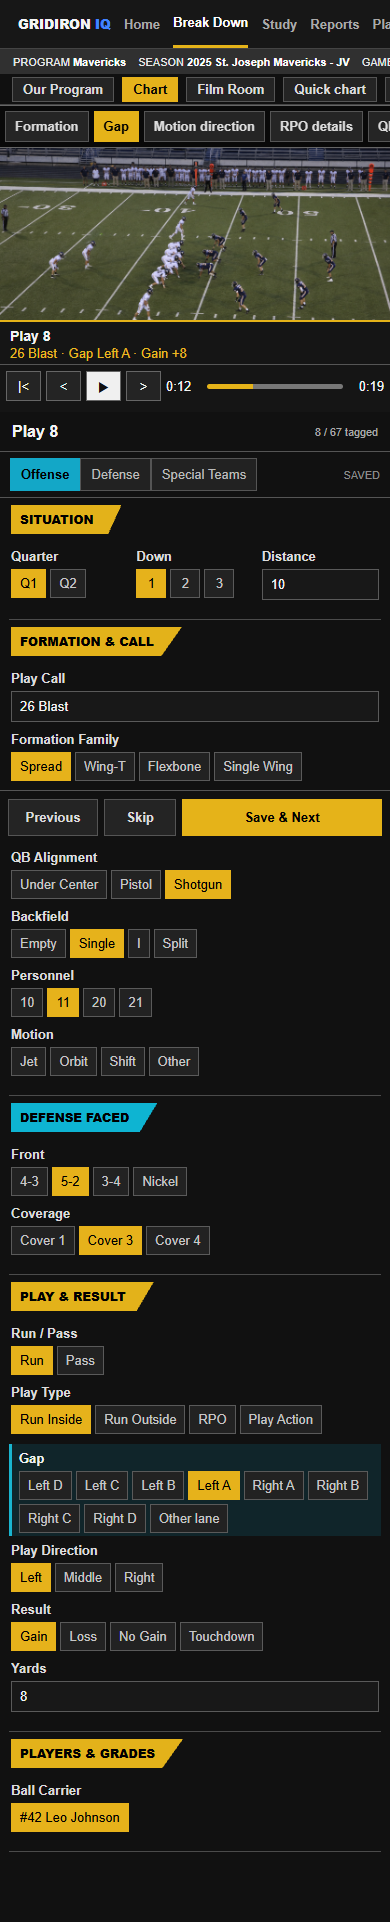
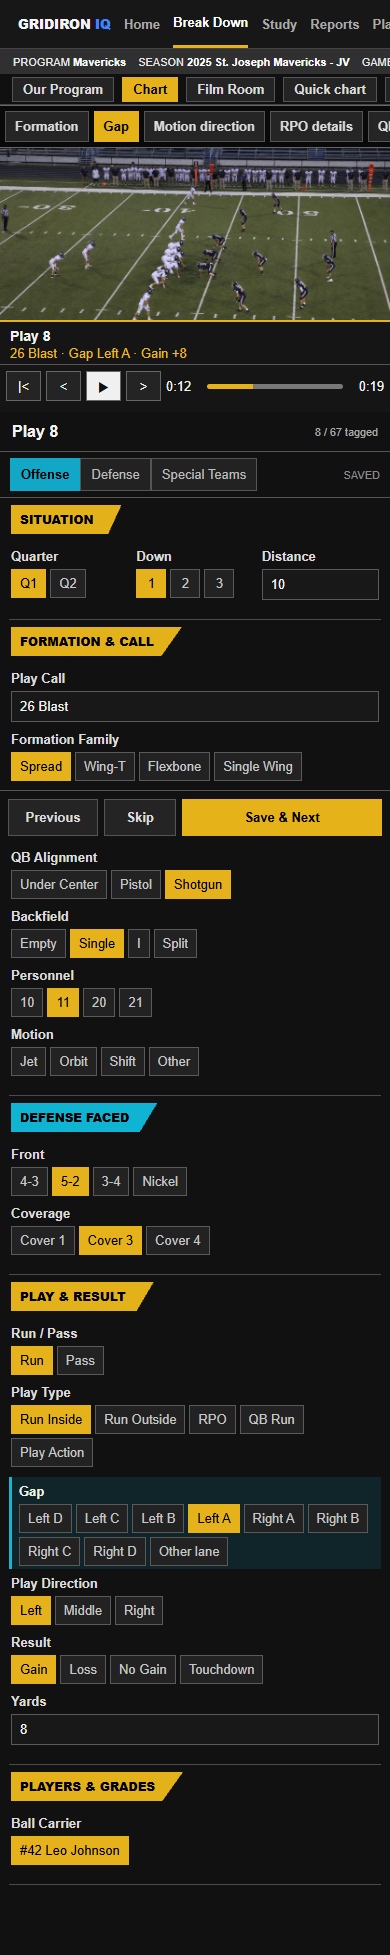
Comp: reveal charting details inline

Changed region(s): [[0.0, 0.0, 1.0, 0.9677], [0.6769, 0.281, 0.8308, 0.3122], [0.5231, 0.281, 0.5846, 0.3122]]

diff --git a/design-comps/breakdown-charting-2026-09-27/index.html b/design-comps/breakdown-charting-2026-09-27/index.html
@@ -67,6 +67,8 @@
     .new-field { margin:8px -2px 0; padding:7px 7px 3px; border-left:3px solid #1ab4cf; background:#10252a; }
     .new-field .field:first-child { margin-top:0; }
     .new-field .field-label { color:#f2f2f2; }
+    .motion-path { display:grid; grid-template-columns:repeat(2,minmax(0,1fr)); gap:8px; }
+    .motion-path .field { min-width:0; margin:0 0 4px; }
     .formation-fields.focused { margin:8px -2px 0; padding:7px 7px 3px; border-left:3px solid #1ab4cf; background:#10252a; }
     .scenario { display:none; }
     .scenario.active { display:contents; }
@@ -89,10 +91,10 @@
       <div class="film"><div class="frame"><img src="../../ux-prototype/assets/all22-frame.png" alt="All-22 football film frame"></div><div class="film-meta"><strong>Play 8 <span style="color:#999;font-weight:400">1st &amp; 10 · Own 28 · Left hash</span></strong><span class="accent" id="film-summary">26 Blast · Run inside · Gain +8</span><span>Our Drive 1</span></div><div class="film-controls"><div class="buttons"><button title="Previous play">|&lt;</button><button title="Rewind">&lt;</button><button class="play" title="Play">&#9654;</button><button title="Forward">&gt;</button><span>0:12</span><div class="track"></div><span>0:19</span></div></div></div>
       <aside class="plays"><div class="plays-head">PLAYS <small>67 plays · grouped by drive</small></div><div class="play-list"><div class="play-row"><span>3</span><b>1st &amp; 10</b><span>Loss -3</span></div><div class="play-row"><span>4</span><b>2nd &amp; 13</b><span>Penalty +5</span></div><div class="play-row"><span>5</span><b>2nd &amp; 8</b><span>Loss -1</span></div><div class="play-row"><span>6</span><b>3rd &amp; 9</b><span>Loss -4</span></div><div class="play-row"><span>7</span><b>4th &amp; 13</b><span>Punt</span></div><div class="play-row current"><span>8</span><b>1st &amp; 10</b><span>Gain +8</span></div><div class="play-row"><span>9</span><b>1st &amp; 10</b><span>Gain +6</span></div><div class="play-row"><span>10</span><b>2nd &amp; 4</b><span>TD +8</span></div><div class="play-row"><span>11</span><b>Down -</b><span>XP</span></div><div class="play-row"><span>12</span><b>Down -</b><span>Kickoff</span></div><div class="play-row"><span>13</span><b>1st &amp; 10</b><span>Loss -1</span></div><div class="play-row"><span>14</span><b>2nd &amp; 11</b><span>Gain +1</span></div></div></aside>
       <section class="deck" aria-label="Charting deck"><div class="deck-head"><strong>Play 8</strong><small>8 / 67 tagged</small></div><div class="unit"><button class="active">Offense</button><button>Defense</button><button>Special Teams</button><span class="mode">SAVED</span></div><div class="deck-body"><div class="section"><span class="section-title">SITUATION</span><div class="select-line"><div class="field"><div class="field-label">Quarter</div><div class="chips"><button class="chip on">Q1</button><button class="chip">Q2</button></div></div><div class="field"><div class="field-label">Down</div><div class="chips"><button class="chip on">1</button><button class="chip">2</button><button class="chip">3</button></div></div><div class="field"><div class="field-label">Distance</div><input class="input" value="10" aria-label="Distance"></div></div></div>
-      <div class="section"><span class="section-title">FORMATION &amp; CALL</span><div class="field"><div class="field-label">Play Call</div><input class="input" id="play-call" value="26 Blast" aria-label="Play call"></div><div class="formation-fields" id="formation-fields"><div class="field"><div class="field-label">Formation Family</div><div class="chips" id="formation-family"><button class="chip on">Spread</button><button class="chip">Wing-T</button><button class="chip">Flexbone</button><button class="chip">Single Wing</button></div></div><div class="field"><div class="field-label">Receiver Set</div><div class="chips" id="receiver-set"><button class="chip">2x2</button><button class="chip on">3x1</button><button class="chip">2x1</button><button class="chip">3x2</button></div></div></div><div class="field"><div class="field-label">QB Alignment</div><div class="chips"><button class="chip">Under Center</button><button class="chip">Pistol</button><button class="chip on">Shotgun</button></div></div><div class="field"><div class="field-label">Backfield</div><div class="chips"><button class="chip">Empty</button><button class="chip on">Single</button><button class="chip">I</button><button class="chip">Split</button></div></div><div class="field"><div class="field-label">Personnel</div><div class="chips"><button class="chip">10</button><button class="chip on">11</button><button class="chip">20</button><button class="chip">21</button></div></div><div class="field"><div class="field-label">Motion</div><div class="chips"><button class="chip" id="jet-chip">Jet</button><button class="chip">Orbit</button><button class="chip">Shift</button><button class="chip">Other</button></div></div>
-      <div class="scenario" data-scenario="motion"><div class="new-field"><div class="field-label">Motion path</div><div class="field"><div class="field-label">Starts</div><div class="chips"><button class="chip on">Left</button><button class="chip">Middle</button><button class="chip">Right</button></div></div><div class="field"><div class="field-label">Ends</div><div class="chips"><button class="chip">Left</button><button class="chip">Middle</button><button class="chip on">Right</button></div></div></div></div></div>
+      <div class="section"><span class="section-title">FORMATION &amp; CALL</span><div class="field"><div class="field-label">Play Call</div><input class="input" id="play-call" value="26 Blast" aria-label="Play call"></div><div class="formation-fields" id="formation-fields"><div class="field"><div class="field-label">Formation Family</div><div class="chips" id="formation-family"><button class="chip on">Spread</button><button class="chip">Wing-T</button><button class="chip">Flexbone</button><button class="chip">Single Wing</button></div></div><div class="field"><div class="field-label">Receiver Set</div><div class="chips" id="receiver-set"><button class="chip">2x2</button><button class="chip on">3x1</button><button class="chip">2x1</button><button class="chip">3x2</button></div></div></div><div class="field"><div class="field-label">QB Alignment</div><div class="chips"><button class="chip">Under Center</button><button class="chip">Pistol</button><button class="chip on">Shotgun</button></div></div><div class="field"><div class="field-label">Backfield</div><div class="chips"><button class="chip">Empty</button><button class="chip on">Single</button><button class="chip">I</button><button class="chip">Split</button></div></div><div class="field"><div class="field-label">Personnel</div><div class="chips"><button class="chip">10</button><button class="chip on">11</button><button class="chip">20</button><button class="chip">21</button></div></div><div class="field"><div class="field-label">Motion</div><div class="chips" id="motion-chips"><button class="chip">Jet</button><button class="chip">Orbit</button><button class="chip">Shift</button><button class="chip">Other</button></div></div>
+      <div class="scenario" data-scenario="motion"><div class="new-field motion-path"><div class="field"><div class="field-label">Starts</div><div class="chips" id="motion-start"><button class="chip on">Left</button><button class="chip">Middle</button><button class="chip">Right</button></div></div><div class="field"><div class="field-label">Ends</div><div class="chips" id="motion-end"><button class="chip">Left</button><button class="chip">Middle</button><button class="chip on">Right</button></div></div></div></div></div>
       <div class="section"><span class="section-title cyan">DEFENSE FACED</span><div class="field"><div class="field-label">Front</div><div class="chips"><button class="chip">4-3</button><button class="chip on">5-2</button><button class="chip">3-4</button><button class="chip">Nickel</button></div></div><div class="field"><div class="field-label">Coverage</div><div class="chips"><button class="chip">Cover 1</button><button class="chip on">Cover 3</button><button class="chip">Cover 4</button></div></div></div>
-      <div class="section"><span class="section-title">PLAY &amp; RESULT</span><div class="field"><div class="field-label">Run / Pass</div><div class="chips"><button class="chip on">Run</button><button class="chip">Pass</button></div></div><div class="field"><div class="field-label">Play Type</div><div class="chips"><button class="chip on">Run Inside</button><button class="chip">Run Outside</button><button class="chip">RPO</button><button class="chip">Play Action</button></div></div>
+      <div class="section"><span class="section-title">PLAY &amp; RESULT</span><div class="field"><div class="field-label">Run / Pass</div><div class="chips"><button class="chip on">Run</button><button class="chip">Pass</button></div></div><div class="field"><div class="field-label">Play Type</div><div class="chips" id="play-type-chips"><button class="chip on">Run Inside</button><button class="chip">Run Outside</button><button class="chip">RPO</button><button class="chip">QB Run</button><button class="chip">Play Action</button></div></div>
       <div class="scenario" data-scenario="gap"><div class="new-field"><div class="field-label">Gap</div><div class="chips"><button class="chip">Left D</button><button class="chip">Left C</button><button class="chip">Left B</button><button class="chip on">Left A</button><button class="chip">Right A</button><button class="chip">Right B</button><button class="chip">Right C</button><button class="chip">Right D</button><button class="chip">Other lane</button></div></div></div>
       <div class="scenario" data-scenario="rpo"><div class="new-field"><div class="field-label">RPO details</div><div class="field"><div class="field-label">Read defender</div><div class="chips"><button class="chip">End</button><button class="chip on">Apex</button><button class="chip">Box</button><button class="chip">Other</button></div></div><div class="field"><div class="field-label">Defender #</div><input class="input" value="" placeholder="Jersey number" aria-label="Read defender jersey number"></div><div class="field"><div class="field-label">Decision</div><div class="chips"><button class="chip">Give</button><button class="chip">Keep</button><button class="chip on">Throw</button></div></div></div></div>
       <div class="scenario" data-scenario="qb"><div class="new-field"><div class="field-label">QB run</div><div class="field"><div class="field-label">Run type</div><div class="chips"><button class="chip on">Designed</button><button class="chip">Scramble</button><button class="chip">RPO keeper</button></div></div><div class="field"><div class="field-label">Gap</div><div class="chips"><button class="chip">Left D</button><button class="chip">Left C</button><button class="chip">Left B</button><button class="chip">Left A</button><button class="chip">Right A</button><button class="chip on">Right B</button><button class="chip">Right C</button><button class="chip">Right D</button><button class="chip">Other lane</button></div></div></div></div>
@@ -104,14 +106,10 @@
   <nav class="review-tabs" aria-label="Comp views"><button data-view="formation" class="active">Formation</button><button data-view="gap">Gap</button><button data-view="motion">Motion direction</button><button data-view="rpo">RPO details</button><button data-view="qb">QB run</button></nav>
   <script>
     let currentView='formation';
+    let currentPlayType='Run Inside';
     function selected(group) { return document.querySelector(group+' .chip.on')?.textContent || 'Uncharted'; }
     function syncExample() {
-      const keeper=currentView==='qb' && selected('[data-scenario="qb"] .field:nth-of-type(2)')==='RPO keeper';
-      document.querySelectorAll('.deck-body .chip').forEach(button => {
-        if (button.closest('.scenario')) return;
-        if (button.textContent==='RPO') button.classList.toggle('on',currentView==='rpo'||keeper);
-        if (button.textContent==='Run Inside') button.classList.toggle('on',currentView!=='rpo'&&!keeper);
-      });
+      document.querySelectorAll('#play-type-chips .chip').forEach(button => button.classList.toggle('on',button.textContent===currentPlayType));
       const direction=[...document.querySelectorAll('.section .field')].find(field=>field.querySelector('.field-label')?.textContent==='Play Direction');
       direction?.querySelectorAll('.chip').forEach(button=>button.classList.toggle('on',button.textContent===(currentView==='qb'?'Right':'Left')));
     }
@@ -119,25 +117,26 @@
       let detail;
       if (currentView==='formation') detail=`${selected('#formation-family')} · ${selected('#receiver-set')} · 26 Blast`;
       if (currentView==='gap') detail=`26 Blast · Gap ${selected('[data-scenario="gap"]')}`;
-      if (currentView==='motion') detail=`Jet motion · ${selected('[data-scenario="motion"] .field:nth-of-type(2)')} to ${selected('[data-scenario="motion"] .field:nth-of-type(3)')}`;
+      if (currentView==='motion') detail=`${selected('#motion-chips')} motion · ${selected('#motion-start')} to ${selected('#motion-end')}`;
       if (currentView==='rpo') detail=`RPO Glance · ${selected('[data-scenario="rpo"] .field:nth-of-type(2)')} read · ${selected('[data-scenario="rpo"] .field:nth-of-type(4)')}`;
       if (currentView==='qb') detail=`QB Draw · ${selected('[data-scenario="qb"] .field:nth-of-type(2)')} · Gap ${selected('[data-scenario="qb"] .field:nth-of-type(3)')}`;
       document.getElementById('film-summary').textContent=detail+' · Gain +8';
       syncExample();
     }
-    function show(view) {
+    function show(view,{jumpToField=true,motionType,playType}={}) {
       currentView=view;
+      currentPlayType=playType || (view==='rpo'?'RPO':view==='qb'?'QB Run':'Run Inside');
       document.querySelectorAll('.review-tabs button').forEach(button => button.classList.toggle('active',button.dataset.view===view));
       document.querySelectorAll('.scenario').forEach(panel => panel.classList.toggle('active',panel.dataset.scenario===view));
       document.getElementById('formation-fields').classList.toggle('focused',view==='formation');
-      updateSummary();
+      document.querySelectorAll('#motion-chips .chip').forEach(button => button.classList.toggle('on',view==='motion' && button.textContent===(motionType || 'Jet')));
       document.getElementById('play-call').value=view==='rpo'?'RPO Glance':view==='qb'?'QB Draw':'26 Blast';
-      document.getElementById('jet-chip').classList.toggle('on',view==='motion');
       document.getElementById('player-role').textContent=view==='rpo'?'Receiver':'Ball Carrier';
       document.getElementById('player-name').textContent=view==='rpo'?'#81 Jace Schaffer':view==='qb'?'#7 Colton Schurig':'#42 Leo Johnson';
       const resultButtons=[...document.querySelectorAll('.section')].find(section => section.textContent.includes('PLAY & RESULT'))?.querySelectorAll('.field')[0]?.querySelectorAll('.chip');
       if(resultButtons) resultButtons.forEach(button => button.classList.toggle('on',button.textContent===(view==='rpo'?'Pass':'Run')));
-      if (innerWidth>650) {
+      updateSummary();
+      if (jumpToField && innerWidth>650) {
         const deckBody=document.querySelector('.deck-body');
         const field=view==='formation'?document.getElementById('formation-fields'):document.querySelector(`.scenario[data-scenario="${view}"] .new-field`);
         deckBody.scrollTop+=field.getBoundingClientRect().top-deckBody.getBoundingClientRect().top-175;
@@ -145,6 +144,18 @@
       history.replaceState(null,'','#'+view);
     }
     document.querySelectorAll('.review-tabs button').forEach(button => button.addEventListener('click',()=>show(button.dataset.view)));
+    document.getElementById('motion-chips').addEventListener('click',event => {
+      const button=event.target.closest('button');
+      if (!button) return;
+      show(button.classList.contains('on')?'formation':'motion',{jumpToField:false,motionType:button.textContent});
+    });
+    document.getElementById('play-type-chips').addEventListener('click',event => {
+      const button=event.target.closest('button');
+      if (!button) return;
+      const type=button.textContent;
+      const view=type==='RPO'?'rpo':type==='QB Run'?'qb':type.startsWith('Run')?'gap':'formation';
+      show(view,{jumpToField:false,playType:type});
+    });
     document.querySelectorAll('.new-field .chips, .formation-fields .chips').forEach(group => group.addEventListener('click',event => { const button=event.target.closest('button'); if(!button) return; const wasOn=button.classList.contains('on'); group.querySelectorAll('button').forEach(item=>item.classList.remove('on')); if(!wasOn) button.classList.add('on'); updateSummary(); }));
     show(['formation','gap','motion','rpo','qb'].includes(location.hash.slice(1))?location.hash.slice(1):'formation');
   </script>

diff --git a/design-comps/breakdown-charting-2026-09-27/RATIONALE.md b/design-comps/breakdown-charting-2026-09-27/RATIONALE.md
@@ -4,13 +4,13 @@ Status: proposal only. The coach has not approved the field design or vocabulary
 
 Design requirement: do not show "optional" subtext beside charting fields. Blank values remain valid where the data model permits them; the label does not need to announce that.
 
-Open `index.html` and switch between Formation, Gap, Motion direction, RPO details, and QB run. The existing Chart workspace and section order are preserved. A cyan inset highlights each proposed field group; the rest of the deck provides placement and density context. The game/play values are illustrative, not a claim about the canonical season. The film is a repository asset used as a visual fixture. On-screen explainer prose was removed at the coach's request; rationale remains here.
+Open `index.html` and switch between Formation, Gap, Motion direction, RPO details, and QB run. Those floating tabs are review shortcuts only, not a proposed charting step. In the deck, choosing a Motion chip reveals its path immediately below the chips; choosing Run, RPO, or QB Run in Play Type reveals that play's detail directly below the choice. Neither action scrolls the deck. The existing Chart workspace and section order are preserved. A cyan inset highlights each proposed field group; the rest of the deck provides placement and density context. The game/play values are illustrative, not a claim about the canonical season. The film is a repository asset used as a visual fixture. On-screen explainer prose was removed at the coach's request; rationale remains here.
 
 ## Placement and behavior proposed
 
 - Formation & Call replaces the vague Our Offensive Look heading in this comp. Formation Family (e.g. Spread) and Receiver Set (e.g. 3x1) are separate selections. The film summary displays both together. QB Alignment, Backfield, Personnel, Motion, and Play Call remain distinct rows. The numeric set choices are receiver distributions, not package names or bunch/stack modifiers. The exact family and set vocabularies still need coach review.
 - Gap belongs in Play & Result beside Play Type and Play Direction. It records the actual lane hit, not the called gap. A/B/C/D are paired with left/right, plus Other lane. It is optional and does not change yardage or run classification.
-- Motion path belongs directly after Motion in Our Offensive Look. Start and end are separately optional; both use the offense's left/middle/right perspective. Motion type remains its own tag.
+- Motion path belongs directly after Motion in Formation & Call. Selecting a Motion type reveals Starts and Ends side by side in place, with no trip to the review tabs or scroll jump. Start and end are separately optional; both use the offense's left/middle/right perspective. Motion type remains its own tag.
 - RPO details appear only for an RPO play. Read defender and decision are separate from the existing Play Type and Run/Pass result. End/Apex/Box/Other and Give/Keep/Throw are provisional vocabulary.
 - The film detail line echoes the new selection as soon as the view changes, so the coach can verify the tag without scrolling back through the deck. A defender jersey number is an optional RPO detail when it is visible on film; no number is inferred.
 - QB run is a distinct review state with Designed, Scramble, and RPO keeper choices, plus the same optional Gap vocabulary. It charts intent separately from Run/Pass and the QB as ball carrier. This expands the comp only; its separate future roadmap priority has not been moved into implementation scope.
@@ -36,4 +36,4 @@ Implementation, if approved, needs owned tag definitions, editing/clear semantic
 
 ## Visual check
 
-The five views were captured at 1440x900 and 390x844. Each view shows its own proposed group, the film asset loads, and neither viewport has horizontal document overflow. The screenshots are review evidence, not production acceptance.
+The five views were captured at 1440x900 and 390x844. Direct chip-to-detail flows were also captured for Motion at both widths. Each view shows its own proposed group, the film asset loads, and neither viewport has horizontal document overflow. The screenshots are review evidence, not production acceptance.
